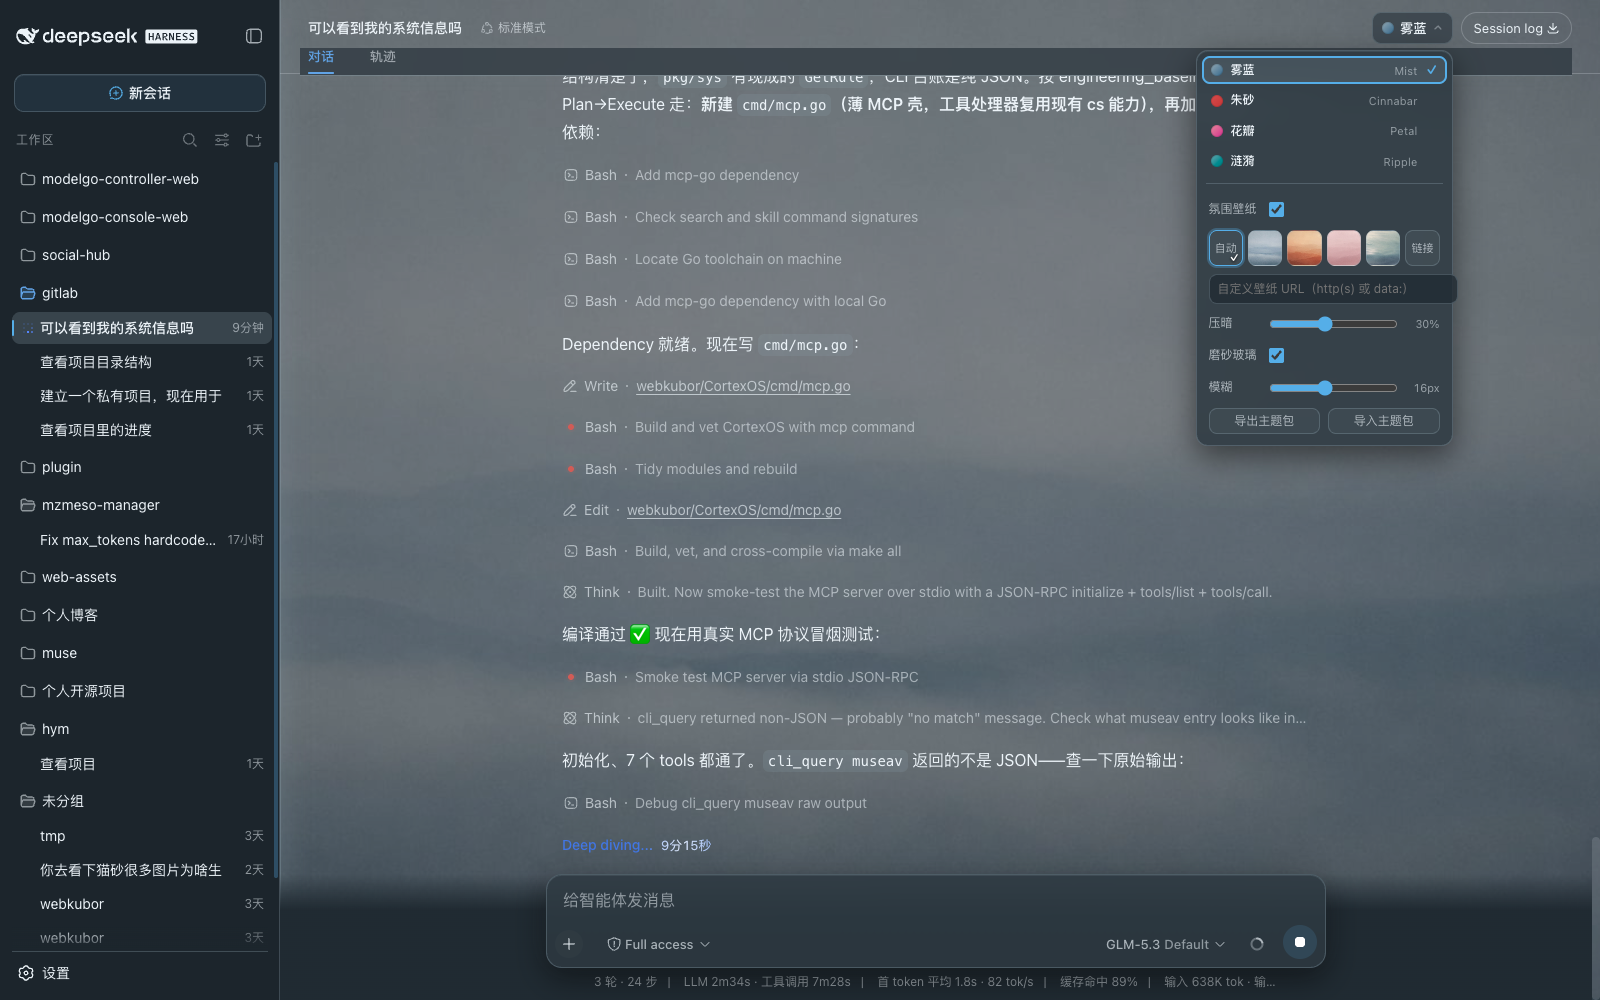
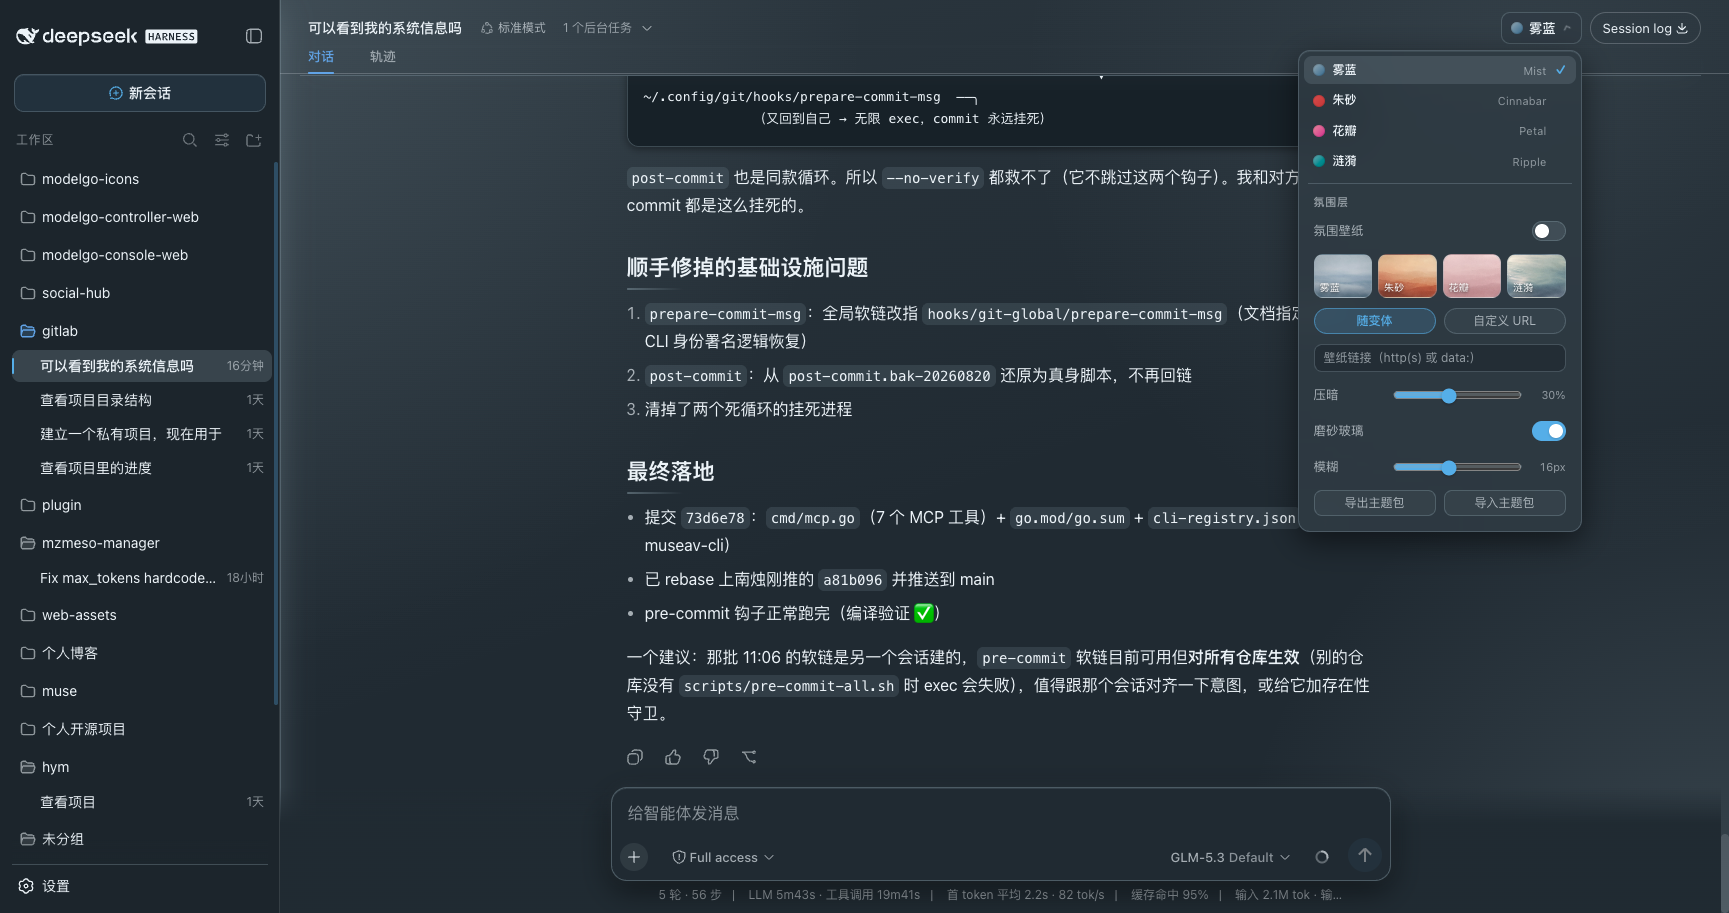
fix(ambience): 重做氛围设置面板视觉——宽菜单 + toggle 开关 + 4宫格缩略图
- 菜单加宽到 272px，缩略图从 6 列 ~20px 改为 4 宫格 44px 高并带名字角标
- 原生 checkbox 换成手写 iOS 风格 toggle；滑杆统一轨道/拇指样式
- 「自动/自定义」从缩略图降为 pill 按钮行；滑杆拖动实时生效
- 修复面板各控件与旧 checkbox 绑定脱节的问题

diff --git a/lib/client.js b/lib/client.js
@@ -948,9 +948,15 @@ function buildSwitcherHTML(currentVariant) {
   }).join('')
   const wpThumbs = VARIANTS.map((v) =>
     `<button type="button" class="dsh-bloom-wp" data-amb-mode="fixed" data-amb-variant="${v}"` +
-    ` title="${VARIANT_LABELS[v].zh}壁纸" style="background-image:url('${WALLPAPERS[v]}')">` +
+    ` title="${VARIANT_LABELS[v].zh}" style="background-image:url('${WALLPAPERS[v]}')">` +
+    `<span class="dsh-bloom-wp__name">${VARIANT_LABELS[v].zh}</span>` +
     `<span class="dsh-bloom-wp__check">✓</span></button>`
   ).join('')
+  const toggle = (key, label, on) =>
+    `<div class="dsh-bloom-amb__row">` +
+    `<span class="dsh-bloom-amb__label">${label}</span>` +
+    `<button type="button" class="dsh-bloom-toggle" role="switch" aria-checked="${on}" data-checked="${on}"` +
+    ` data-amb-toggle="${key}" aria-label="${label}"><span class="dsh-bloom-toggle__knob"></span></button></div>`
   return `<div class="dsh-bloom-switcher" data-plugin="${PLUGIN_ID}">
   <button type="button" class="dsh-bloom-trigger" aria-haspopup="listbox" aria-expanded="false" title="Bloom 主题">
     <span class="dsh-bloom-dot" style="${dotStyle(currentVariant)}"></span>
@@ -964,35 +970,26 @@ function buildSwitcherHTML(currentVariant) {
     ${options}
     <div class="dsh-bloom-sep" role="separator"></div>
     <div class="dsh-bloom-amb" data-plugin="${PLUGIN_ID}">
+      <div class="dsh-bloom-amb__title">氛围层</div>
+      ${toggle('enabled', '氛围壁纸', amb.enabled)}
+      <div class="dsh-bloom-wp-row">${wpThumbs}</div>
       <div class="dsh-bloom-amb__row">
-        <span class="dsh-bloom-amb__label">氛围壁纸</span>
-        <input type="checkbox" data-amb="enabled" ${amb.enabled ? 'checked' : ''} aria-label="开启氛围壁纸">
+        <button type="button" class="dsh-bloom-pill" data-amb-mode="auto"
+                data-active="${amb.mode === 'auto'}" aria-pressed="${amb.mode === 'auto'}">随变体</button>
+        <button type="button" class="dsh-bloom-pill" data-amb-mode="custom"
+                data-active="${amb.mode === 'custom'}" aria-pressed="${amb.mode === 'custom'}">自定义 URL</button>
       </div>
-      <div class="dsh-bloom-wp-row">
-        <button type="button" class="dsh-bloom-wp dsh-bloom-wp--auto" data-amb-mode="auto" title="随变体自动切换"
-                data-active="${amb.mode === 'auto'}" aria-pressed="${amb.mode === 'auto'}">
-          <span class="dsh-bloom-wp__auto">自动</span><span class="dsh-bloom-wp__check">✓</span>
-        </button>
-        ${wpThumbs}
-        <button type="button" class="dsh-bloom-wp dsh-bloom-wp--custom" data-amb-mode="custom" title="自定义壁纸"
-                data-active="${amb.mode === 'custom'}" aria-pressed="${amb.mode === 'custom'}">
-          <span class="dsh-bloom-wp__auto">链接</span><span class="dsh-bloom-wp__check">✓</span>
-        </button>
-      </div>
-      <input type="text" class="dsh-bloom-input" data-amb="custom" placeholder="自定义壁纸 URL（http(s) 或 data:）"
+      <input type="text" class="dsh-bloom-input" data-amb="custom" placeholder="壁纸链接（http(s) 或 data:）"
              value="${amb.mode === 'custom' ? amb.custom.replace(/"/g, '&quot;') : ''}" spellcheck="false">
       <div class="dsh-bloom-amb__row">
         <span class="dsh-bloom-amb__label">压暗</span>
-        <input type="range" data-amb="dim" min="0" max="70" step="5" value="${amb.dim}" aria-label="壁纸压暗程度">
+        <input type="range" class="dsh-bloom-range" data-amb="dim" min="0" max="70" step="5" value="${amb.dim}" aria-label="壁纸压暗程度">
         <span class="dsh-bloom-amb__val">${amb.dim}%</span>
       </div>
-      <div class="dsh-bloom-amb__row">
-        <span class="dsh-bloom-amb__label">磨砂玻璃</span>
-        <input type="checkbox" data-amb="glass" ${amb.glass ? 'checked' : ''} aria-label="磨砂玻璃面板">
-      </div>
+      ${toggle('glass', '磨砂玻璃', amb.glass)}
       <div class="dsh-bloom-amb__row">
         <span class="dsh-bloom-amb__label">模糊</span>
-        <input type="range" data-amb="blur" min="4" max="32" step="2" value="${amb.blur}" aria-label="玻璃模糊强度">
+        <input type="range" class="dsh-bloom-range" data-amb="blur" min="4" max="32" step="2" value="${amb.blur}" aria-label="玻璃模糊强度">
         <span class="dsh-bloom-amb__val">${amb.blur}px</span>
       </div>
       <div class="dsh-bloom-amb__row dsh-bloom-amb__row--pack">
@@ -1123,8 +1120,11 @@ const SWITCHER_CSS = `
 .dsh-bloom-option[data-active="true"] .dsh-bloom-check { opacity: 1; }
 
 /* ═══ 氛围区（v0.4.0）════════════════════════════════════════════
-   与变体选项同在下拉菜单里，用一道分隔线划开。控件全部原生 input，
-   只做对齐和配色——不引入任何控件库（保持零依赖）。 */
+   与变体选项同在下拉菜单里，用一道分隔线划开。
+   设计目标：看着像一张原生设置卡片——标题、iOS 风格 toggle、4 宫格缩略图、
+   pill 模式按钮、细滑杆。所有控件手写样式，不引入控件库（保持零依赖）。 */
+.dsh-bloom-menu { width: 272px; }
+
 .dsh-bloom-sep {
   height: 1px;
   margin: 5px 4px;
@@ -1133,56 +1133,87 @@ const SWITCHER_CSS = `
 .dsh-bloom-amb {
   display: flex;
   flex-direction: column;
-  gap: 8px;
-  padding: 7px 7px 6px;
+  gap: 10px;
+  padding: 4px 10px 10px;
+}
+.dsh-bloom-amb__title {
+  font-size: 11px;
+  font-weight: 600;
+  letter-spacing: 0.06em;
+  color: var(--dsw-alias-label-tertiary, #999);
 }
 .dsh-bloom-amb__row {
   display: flex;
   align-items: center;
   gap: 8px;
-  min-height: 24px;
+  min-height: 26px;
 }
 .dsh-bloom-amb__label {
-  flex: none;
-  width: 52px;
-  font-size: 12px;
+  flex: 1;
+  font-size: 12.5px;
   color: var(--dsw-alias-label-secondary, #666);
 }
 .dsh-bloom-amb__val {
   flex: none;
-  width: 34px;
+  width: 36px;
   font-size: 11px;
   text-align: right;
   color: var(--dsw-alias-label-tertiary, #888);
   font-variant-numeric: tabular-nums;
 }
-.dsh-bloom-amb input[type="checkbox"] {
-  margin: 0;
-  accent-color: var(--dsw-alias-brand-primary, #4a90e2);
-  width: 15px;
-  height: 15px;
+
+/* iOS 风格 toggle */
+.dsh-bloom-toggle {
+  flex: none;
+  position: relative;
+  width: 34px;
+  height: 20px;
+  border-radius: 999px;
+  border: 1px solid var(--bloom-hairline, rgba(0,0,0,0.15));
+  background: rgba(var(--bloom-morandi), 0.18);
   cursor: pointer;
+  padding: 0;
+  transition: background 0.2s ease, border-color 0.2s ease;
 }
-.dsh-bloom-amb input[type="range"] {
-  flex: 1;
-  margin: 0;
-  accent-color: var(--dsw-alias-brand-primary, #4a90e2);
-  cursor: pointer;
+.dsh-bloom-toggle__knob {
+  position: absolute;
+  top: 2px;
+  left: 2px;
+  width: 14px;
+  height: 14px;
+  border-radius: 999px;
+  background: #fff;
+  box-shadow: 0 1px 3px rgba(0,0,0,0.25);
+  transition: transform 0.2s ease;
 }
+.dsh-bloom-toggle[data-checked="true"] {
+  background: var(--dsw-alias-brand-primary, #4a90e2);
+  border-color: transparent;
+}
+.dsh-bloom-toggle[data-checked="true"] .dsh-bloom-toggle__knob {
+  transform: translateX(14px);
+}
+.dsh-bloom-toggle:focus-visible {
+  outline: 2px solid var(--dsw-alias-brand-primary, #4a90e2);
+  outline-offset: 2px;
+}
+
+/* 4 宫格壁纸缩略图 */
 .dsh-bloom-wp-row {
   display: grid;
-  grid-template-columns: repeat(6, 1fr);
-  gap: 5px;
+  grid-template-columns: repeat(4, 1fr);
+  gap: 6px;
 }
 .dsh-bloom-wp {
   position: relative;
-  height: 36px;
-  border-radius: 8px;
+  height: 44px;
+  border-radius: 9px;
   border: 1px solid var(--bloom-hairline, rgba(0,0,0,0.12));
   background-size: cover;
   background-position: center;
   cursor: pointer;
   padding: 0;
+  overflow: hidden;
   transition: border-color 0.15s, box-shadow 0.15s, transform 0.15s;
 }
 .dsh-bloom-wp:hover {
@@ -1191,23 +1222,21 @@ const SWITCHER_CSS = `
 }
 .dsh-bloom-wp[data-active="true"] {
   border-color: var(--dsw-alias-brand-primary, #4a90e2);
-  box-shadow: 0 0 0 2px color-mix(in oklch, var(--dsw-alias-brand-primary, #4a90e2), transparent 70%);
+  box-shadow: 0 0 0 2px color-mix(in oklch, var(--dsw-alias-brand-primary, #4a90e2), transparent 65%);
 }
-.dsh-bloom-wp--auto,
-.dsh-bloom-wp--custom {
-  background: rgba(var(--bloom-morandi), 0.1);
-  display: flex;
-  align-items: center;
-  justify-content: center;
-}
-.dsh-bloom-wp__auto {
-  font-size: 11px;
-  color: var(--dsw-alias-label-secondary, #666);
+.dsh-bloom-wp__name {
+  position: absolute;
+  left: 5px;
+  bottom: 3px;
+  font-size: 10px;
+  color: #fff;
+  text-shadow: 0 1px 3px rgba(0,0,0,0.7);
+  letter-spacing: 0.02em;
 }
 .dsh-bloom-wp__check {
   position: absolute;
-  right: 3px;
-  bottom: 2px;
+  right: 4px;
+  top: 2px;
   font-size: 10px;
   font-weight: 700;
   color: #fff;
@@ -1215,20 +1244,88 @@ const SWITCHER_CSS = `
   opacity: 0;
 }
 .dsh-bloom-wp[data-active="true"] .dsh-bloom-wp__check { opacity: 1; }
+
+/* 模式 pill（随变体 / 自定义 URL） */
+.dsh-bloom-pill {
+  flex: 1;
+  height: 26px;
+  border-radius: 999px;
+  border: 1px solid var(--bloom-hairline, rgba(0,0,0,0.12));
+  background: rgba(var(--bloom-morandi), 0.07);
+  color: var(--dsw-alias-label-secondary, #666);
+  font-size: 12px;
+  cursor: pointer;
+  transition: background 0.15s, color 0.15s, border-color 0.15s;
+}
+.dsh-bloom-pill:hover {
+  background: rgba(var(--bloom-morandi), 0.15);
+  color: var(--dsw-alias-label-primary, #222);
+}
+.dsh-bloom-pill[data-active="true"] {
+  background: color-mix(in oklch, var(--dsw-alias-brand-primary, #4a90e2), transparent 82%);
+  border-color: color-mix(in oklch, var(--dsw-alias-brand-primary, #4a90e2), transparent 45%);
+  color: var(--dsw-alias-brand-primary, #4a90e2);
+  font-weight: 500;
+}
+
+/* 细滑杆：用原生 range 但统一轨道/拇指样式 */
+.dsh-bloom-range {
+  flex: 1;
+  margin: 0;
+  height: 18px;
+  accent-color: var(--dsw-alias-brand-primary, #4a90e2);
+  cursor: pointer;
+}
+.dsh-bloom-range::-webkit-slider-runnable-track {
+  height: 3px;
+  border-radius: 999px;
+  background: rgba(var(--bloom-morandi), 0.3);
+}
+.dsh-bloom-range::-webkit-slider-thumb {
+  -webkit-appearance: none;
+  width: 13px;
+  height: 13px;
+  margin-top: -5px;
+  border-radius: 999px;
+  background: #fff;
+  border: 1px solid var(--bloom-hairline-strong, rgba(0,0,0,0.2));
+  box-shadow: 0 1px 3px rgba(0,0,0,0.25);
+}
+.dsh-bloom-range::-moz-range-track {
+  height: 3px;
+  border-radius: 999px;
+  background: rgba(var(--bloom-morandi), 0.3);
+}
+.dsh-bloom-range::-moz-range-thumb {
+  width: 13px;
+  height: 13px;
+  border-radius: 999px;
+  background: #fff;
+  border: 1px solid var(--bloom-hairline-strong, rgba(0,0,0,0.2));
+  box-shadow: 0 1px 3px rgba(0,0,0,0.25);
+}
+
+/* 自定义 URL 输入框 */
 .dsh-bloom-input {
   width: 100%;
   height: 28px;
-  padding: 0 8px;
+  padding: 0 9px;
   border-radius: 8px;
   border: 1px solid var(--bloom-hairline, rgba(0,0,0,0.12));
   background: color-mix(in oklch, var(--dsw-alias-bg-layer-1, #fff), transparent 20%);
   color: var(--dsw-alias-label-primary, #222);
   font-size: 12px;
   outline: none;
+  box-sizing: border-box;
 }
 .dsh-bloom-input:focus {
   border-color: var(--dsw-alias-brand-primary, #4a90e2);
 }
+.dsh-bloom-input::placeholder {
+  color: var(--dsw-alias-label-tertiary, #999);
+}
+
+/* 主题包按钮 */
 .dsh-bloom-mini {
   flex: 1;
   height: 26px;
@@ -1370,12 +1467,15 @@ function renderAmbience(variant) {
 
 function syncAmbiencePanel(panel, amb, variant) {
   const t = (sel) => panel.querySelector(sel)
-  const wpToggle = t('[data-amb="enabled"]'); if (wpToggle) wpToggle.checked = amb.enabled
-  const dim = t('[data-amb="dim"]'); if (dim) dim.value = amb.dim
-  const glass = t('[data-amb="glass"]'); if (glass) glass.checked = amb.glass
-  const blur = t('[data-amb="blur"]'); if (blur) blur.value = amb.blur
+  panel.querySelectorAll('.dsh-bloom-toggle').forEach((el) => {
+    const on = amb[el.dataset.ambToggle] === true
+    el.setAttribute('data-checked', String(on))
+    el.setAttribute('aria-checked', String(on))
+  })
+  const dim = t('[data-amb="dim"]'); if (dim) { dim.value = amb.dim; dim.nextElementSibling.textContent = amb.dim + '%' }
+  const blur = t('[data-amb="blur"]'); if (blur) { blur.value = amb.blur; blur.nextElementSibling.textContent = amb.blur + 'px' }
   const custom = t('[data-amb="custom"]'); if (custom && document.activeElement !== custom) custom.value = amb.mode === 'custom' ? amb.custom : ''
-  panel.querySelectorAll('.dsh-bloom-wp').forEach((el) => {
+  panel.querySelectorAll('.dsh-bloom-wp, .dsh-bloom-pill').forEach((el) => {
     const m = el.dataset.ambMode
     const v = el.dataset.ambVariant
     const active = m === 'auto' ? amb.mode === 'auto'
@@ -1394,7 +1494,16 @@ function bindAmbiencePanel(panel) {
     renderAmbience(readVariant())
   }
   panel.addEventListener('click', (e) => {
-    const wp = e.target.closest('.dsh-bloom-wp')
+    // 自定义 toggle 开关（氛围壁纸 / 磨砂玻璃）
+    const tg = e.target.closest('.dsh-bloom-toggle')
+    if (tg) {
+      const key = tg.dataset.ambToggle
+      const next = tg.getAttribute('data-checked') !== 'true'
+      update({ [key]: next })
+      return
+    }
+    // 壁纸缩略图与模式 pill
+    const wp = e.target.closest('.dsh-bloom-wp, .dsh-bloom-pill')
     if (wp) {
       const m = wp.dataset.ambMode
       // 点缩略图 = 用户意图开启壁纸：顺带把总开关打开（只改 mode 不开 enabled
@@ -1415,8 +1524,6 @@ function bindAmbiencePanel(panel) {
     const el = e.target
     const k = el.dataset && el.dataset.amb
     if (!k) return
-    if (k === 'enabled') update({ enabled: el.checked })
-    if (k === 'glass') update({ glass: el.checked })
     if (k === 'dim') update({ dim: Number(el.value) || 0 })
     if (k === 'blur') update({ blur: Number(el.value) || 0 })
     if (k === 'custom') {
@@ -1431,6 +1538,12 @@ function bindAmbiencePanel(panel) {
         el.placeholder = 'URL 过大，改用 http(s) 链接'
       }
     }
+  })
+  // change 只在松手时触发；滑杆拖动过程中实时生效
+  panel.addEventListener('input', (e) => {
+    const el = e.target
+    const k = el.dataset && el.dataset.amb
+    if (k === 'dim' || k === 'blur') update({ [k]: Number(el.value) || 0 })
   })
   const file = panel.querySelector('.dsh-bloom-import-file')
   if (file) file.addEventListener('change', () => { importThemePack(file); file.value = '' })
